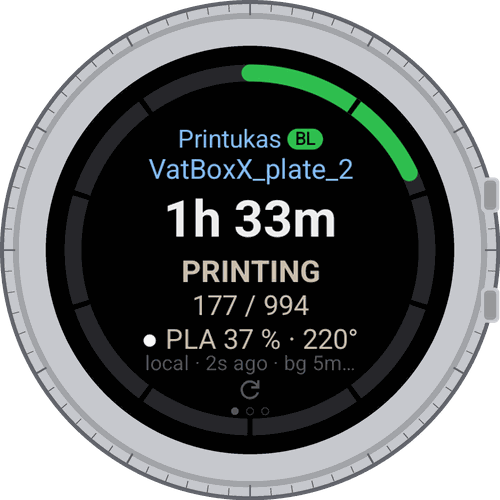
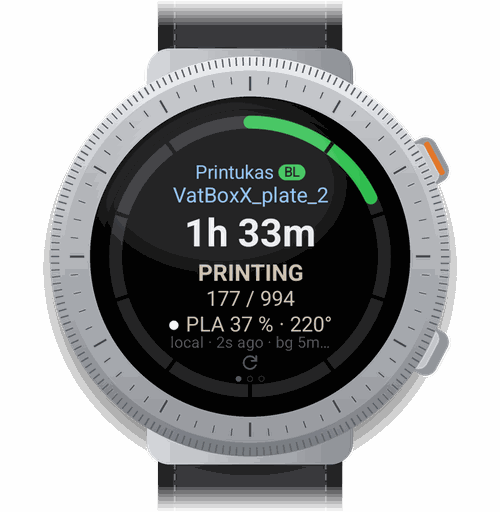
Wrist Control ir TinyStatus: tikroviski laikrodziai

diff --git a/wristcontrol/index.html b/wristcontrol/index.html
@@ -13,7 +13,7 @@
 <p class="lead">A Wear OS app for Vallox heat recovery ventilation. See how fresh the air is, switch
 modes in two taps, and let the app tune the unit to the way your home breathes.</p>
 
-<div class="ekranai"><img src="img/sensors.png?v=2" alt="SENSORS page on the watch: fan, indoor temperature, humidity and CO2" loading="lazy"><img class="vidurys" src="img/optimize_page.png?v=2" alt="OPTIMIZE page on the watch" loading="lazy"><img src="img/stats_page.png?v=2" alt="STATISTICS page on the watch: share of time in the green CO2 zone" loading="lazy"></div>
+<div class="ekranai"><img src="img/sensors.png?v=3" alt="SENSORS page on the watch: fan, indoor temperature, humidity and CO2" loading="lazy"><img class="vidurys" src="img/optimize_page.png?v=3" alt="OPTIMIZE page on the watch" loading="lazy"><img src="img/stats_page.png?v=3" alt="STATISTICS page on the watch: share of time in the green CO2 zone" loading="lazy"></div>
 
 <ul class="cards">
 <li><b>See your air</b>CO2, humidity and temperatures at a glance, coloured green, yellow or red.</li>

diff --git a/tinystatus/index.html b/tinystatus/index.html
@@ -16,7 +16,7 @@
 <h1>3D printers on your wrist.</h1>
 <p class="lead">See how the print is going without walking to the printer or opening your phone.</p>
 
-<div class="ekranai"><img src="img/plytele.png" alt="Printers tile: TinyMaker and Bambu Lab progress rings" loading="lazy"><img class="vidurys" src="img/bambu.png" alt="Bambu Lab printer printing: time left, layers and progress ring" loading="lazy"><img src="img/tinymaker.png" alt="TinyMaker printer page after a print" loading="lazy"></div>
+<div class="ekranai"><img src="img/plytele.png?v=2" alt="Printers tile: TinyMaker and Bambu Lab progress rings" loading="lazy"><img class="vidurys" src="img/bambu.png?v=2" alt="Bambu Lab printer printing: time left, layers and progress ring" loading="lazy"><img src="img/tinymaker.png?v=2" alt="TinyMaker printer page after a print" loading="lazy"></div>
 
 <ul class="products">
 <li><div><h2>Progress and time left</h2><p>For TinyMaker resin printers and Bambu Lab printers.</p></div></li>
